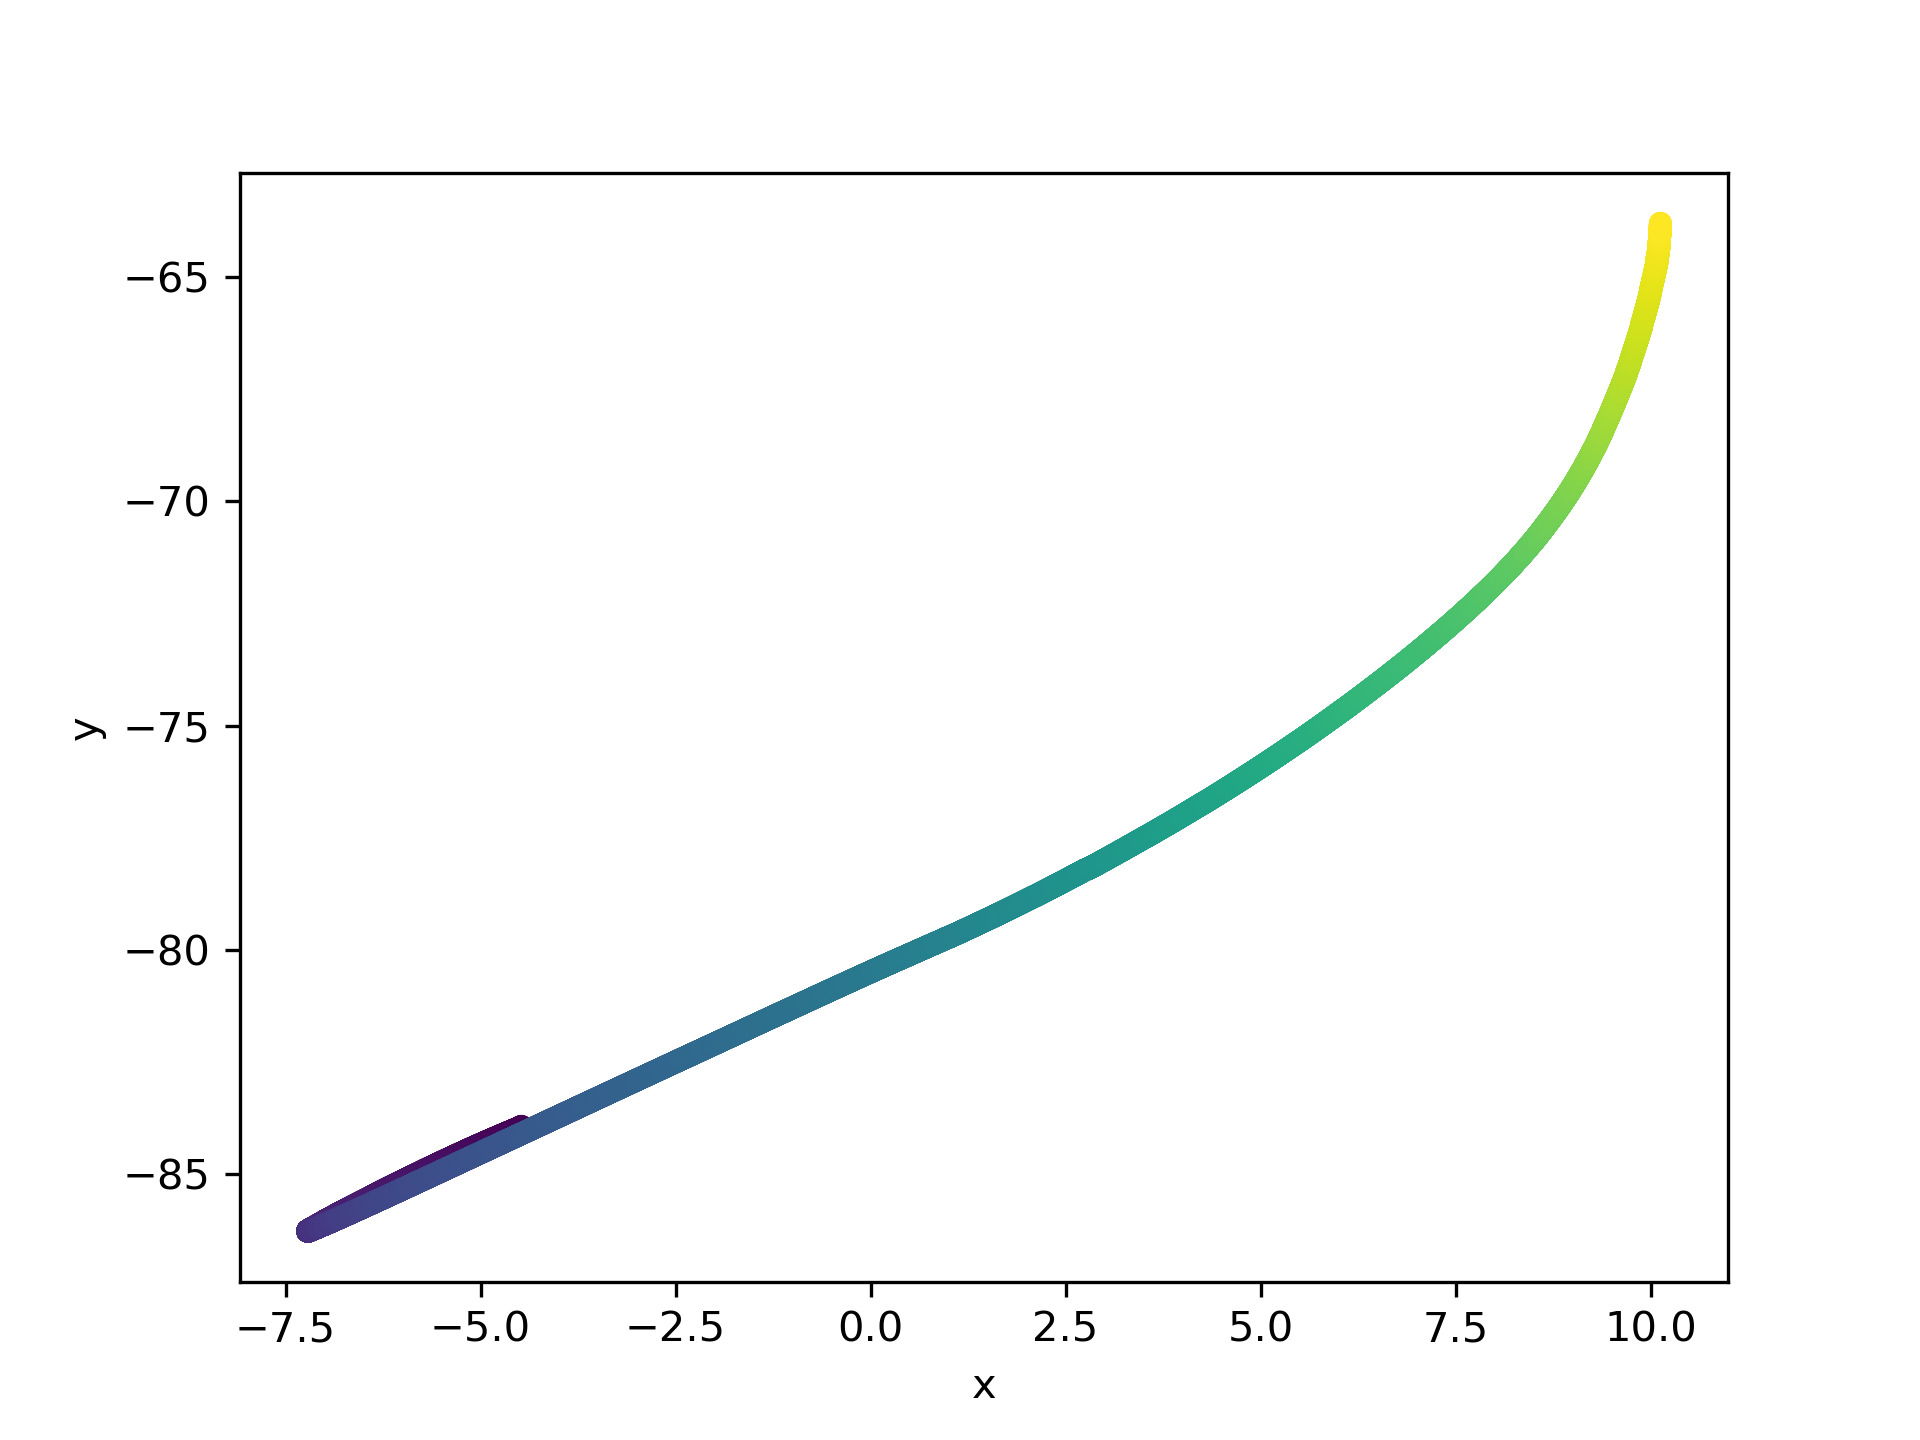
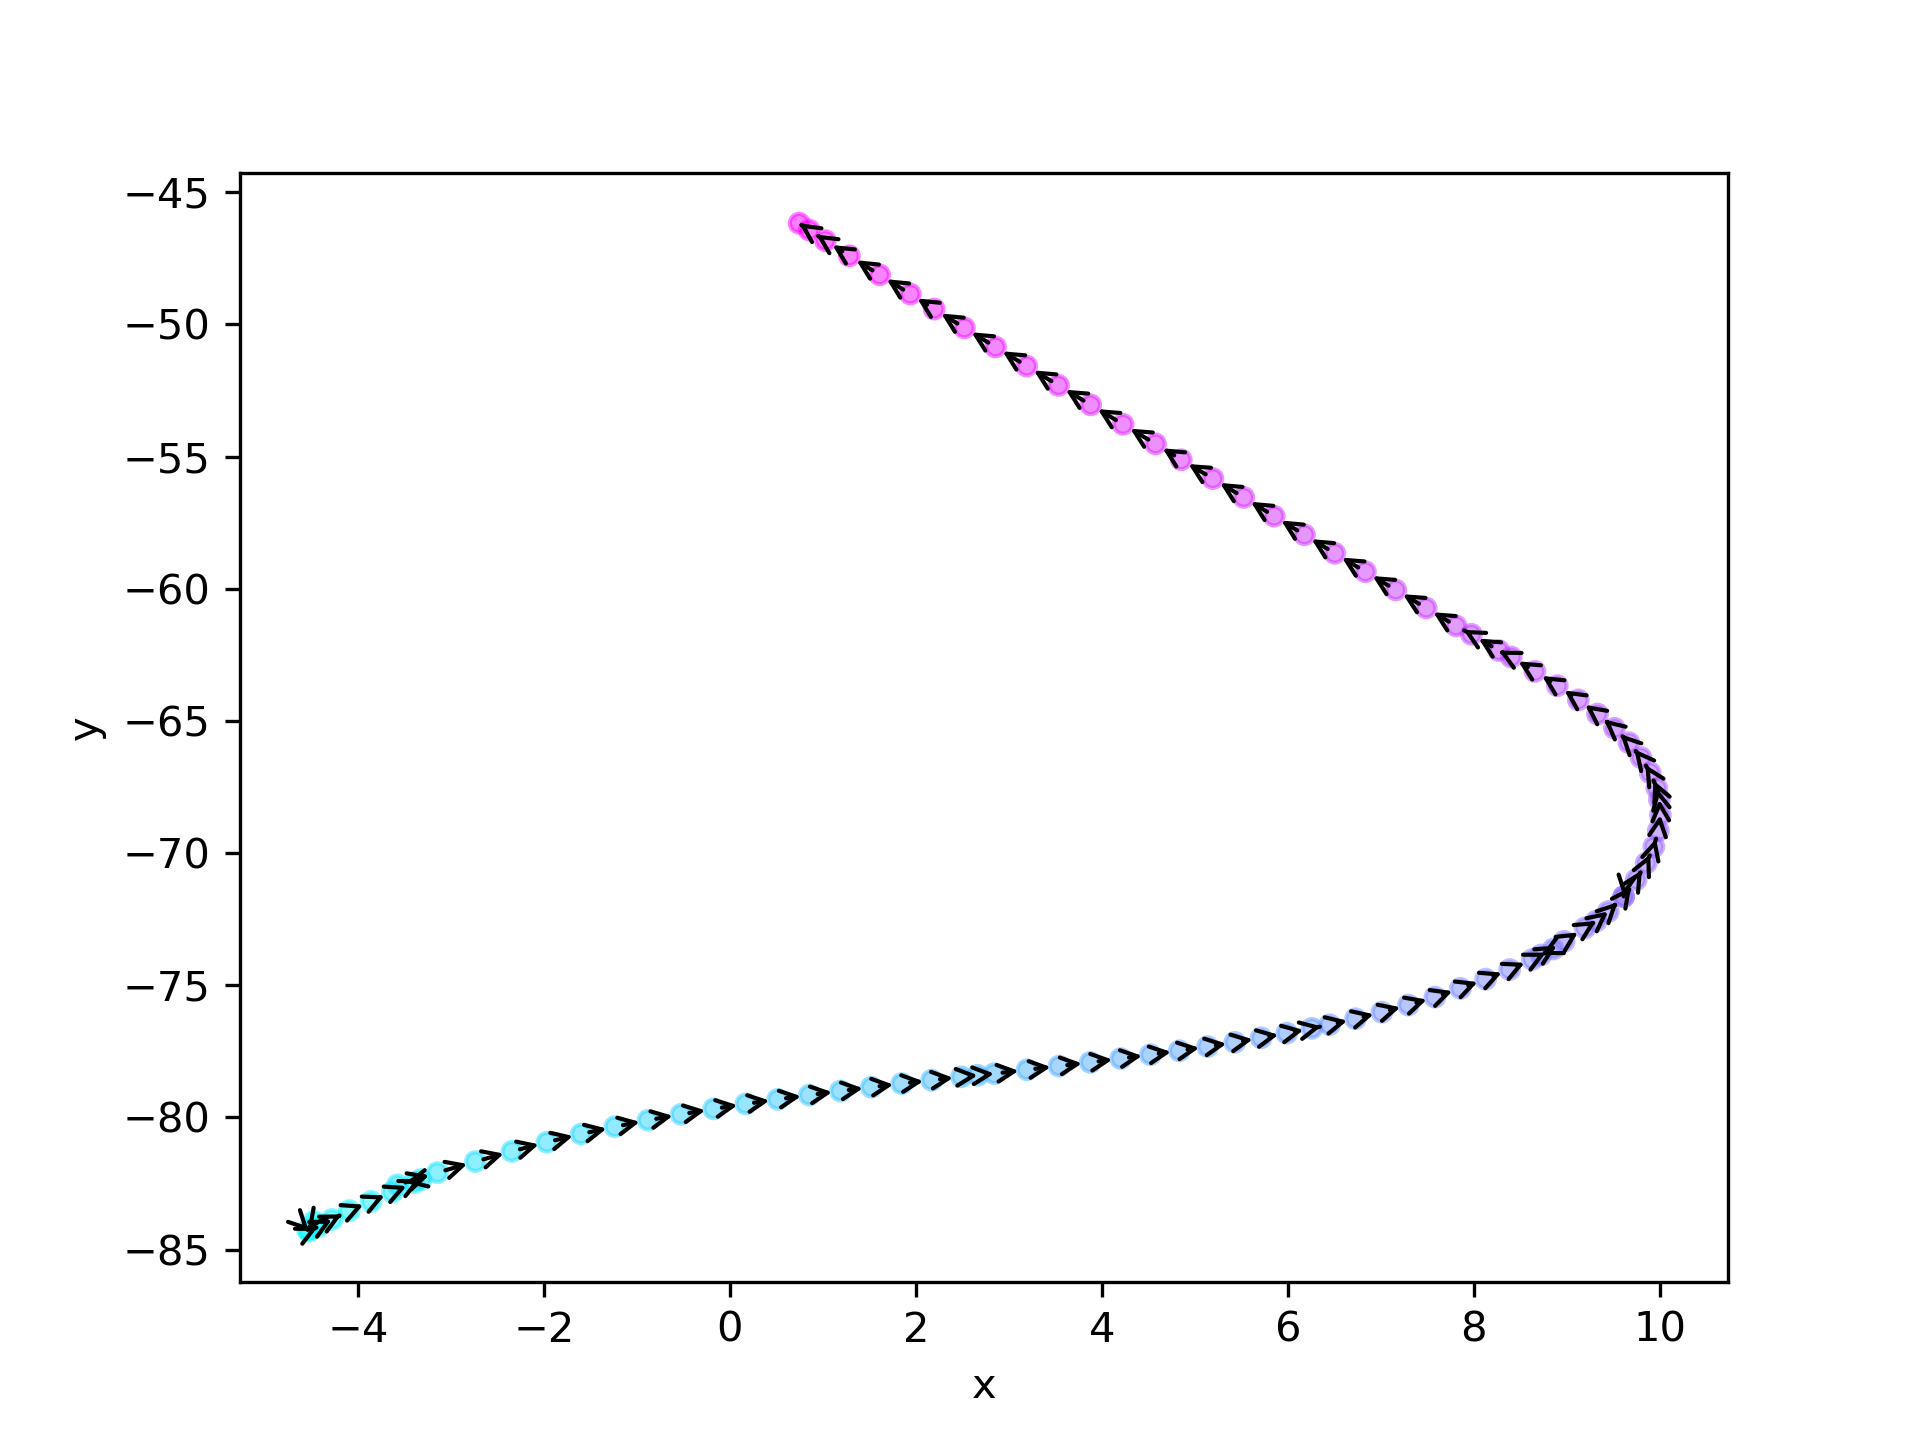
kalman filter done!

diff --git a/get_physical_property.py b/get_physical_property.py
@@ -146,7 +146,18 @@ def construct_physical_property(data_path, imu_timestamps, speed_timestamps, loc
         print(kalman_data_df)
         f = plt.figure()
         ax = kalman_data_df.plot.scatter(
-            x="x", y="y", c="time", colormap='viridis')
+            x="x", y="y", c="time", colormap='cool')
+        prev = None
+        if kalman_filter_step_size < 200:
+            for row in kalman_data_df[::-1].itertuples():
+                if prev:
+                    ax.annotate('',
+                                xy=(prev.x, prev.y),
+                                xytext=(row.x, row.y),
+                                arrowprops=dict(arrowstyle="->"),
+                                color='k',
+                                )
+                prev = row
         plt.savefig(os.path.join(
             data_path, f"physics-analysis-kalman_filter_measure.png"))
     kalman_result_df = pd.DataFrame(
@@ -154,17 +165,17 @@ def construct_physical_property(data_path, imu_timestamps, speed_timestamps, loc
     kalman_result_df["time"] = t
     # source: https://github.com/balzer82/Kalman/blob/master/Kalman-Filter-CA-2.ipynb?create=1
     x = np.matrix(kalman_data_df.loc[0][1:]).T
-    P = np.diag([1.0, 1.0, 2.0, 2.0, 2.0, 2.0])
+    P = np.diag([1.0, 1.0, 3.0, 3.0, 3.0, 3.0])
     dt = (t[1]-t[0]).total_seconds()
     A = np.matrix([[1, 0, dt, 0, 0.5*(dt**2), 0],
                    [0, 1, 0, dt, 0, 0.5*(dt**2)],
                    [0, 0, 1,  0, dt, 0],
-                   [0, 0, 1,  0, 0, dt],
+                   [0, 0, 0,  1, 0, dt],
                    [0, 0, 0, 0, 1, 0],
                    [0, 0, 0, 0, 0, 1]
                    ])
     H = np.diag([1, 1, 1, 1, 1, 1])
-    R = np.diag([1, 1, 1, 1, 1, 1])
+    R = np.diag([0.05**2, 0.05**2, 0.3**2, 0.3**2, 0.3**2, 0.3**2])
     sj = 0.1
     Q = np.matrix([[(dt**6)/36, 0, (dt**5)/12, 0, (dt**4)/6, 0],
                    [0, (dt**6)/36, 0, (dt**5)/12, 0, (dt**4)/6],
@@ -189,7 +200,19 @@ def construct_physical_property(data_path, imu_timestamps, speed_timestamps, loc
         print(kalman_result_df)
         f = plt.figure()
         ax = kalman_result_df.plot.scatter(
-            x="x", y="y", c="time", colormap='viridis')
+            x="x", y="y", c="time", alpha=0.5,
+            colormap="cool")
+        prev = None
+        if kalman_filter_step_size < 200:
+            for row in kalman_result_df[::-1].itertuples():
+                if prev:
+                    ax.annotate('',
+                                xy=(prev.x, prev.y),
+                                xytext=(row.x, row.y),
+                                arrowprops=dict(arrowstyle="->"),
+                                color='k',
+                                )
+                prev = row
         plt.savefig(os.path.join(
             data_path, f"physics-analysis-kalman_predict.png"))
     return kalman_result_df
@@ -219,4 +242,4 @@ if __name__ == '__main__':
         for line in reader.readlines():
             all_timestamps.append(line.replace("\n", ""))
     construct_physical_property(
-        args.data_path, imu_timestamps, speed_timestamps,  localization_timestamps, all_timestamps, 10000,  True)
+        args.data_path, imu_timestamps, speed_timestamps,  localization_timestamps, all_timestamps, 100,  True)
